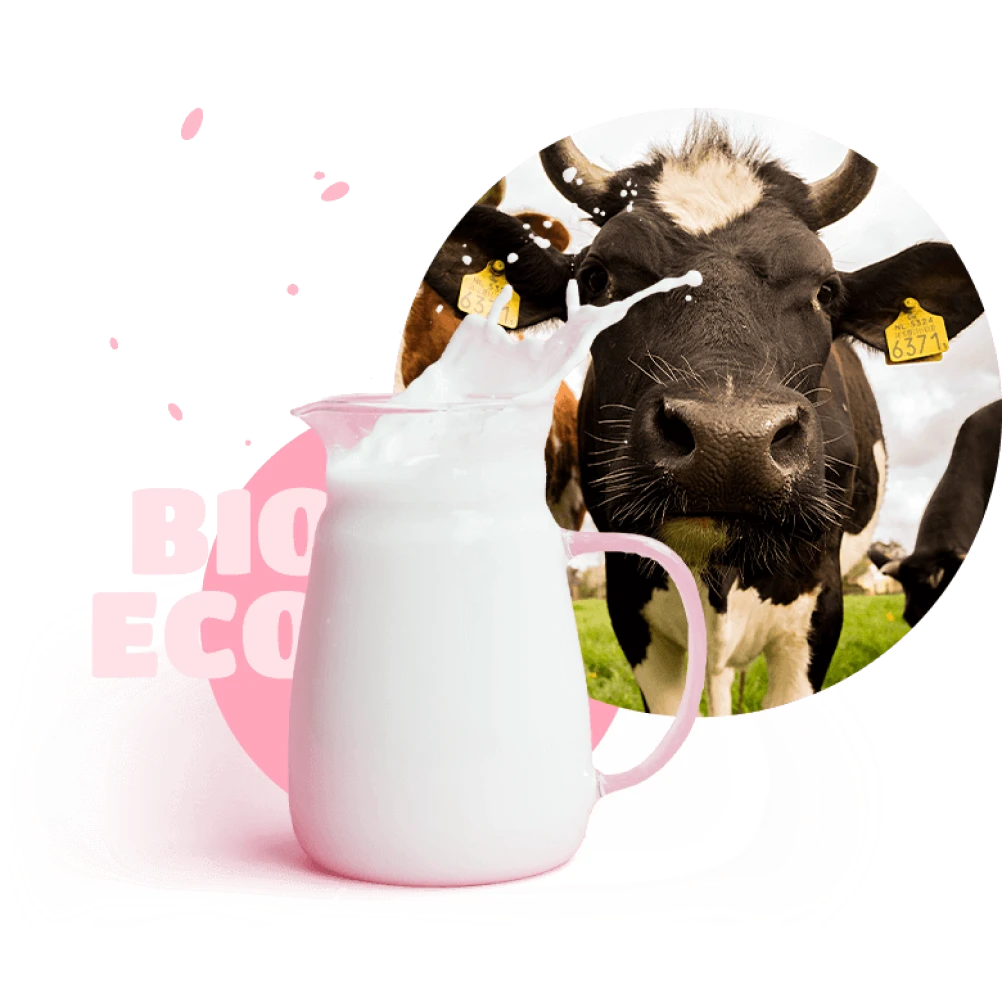
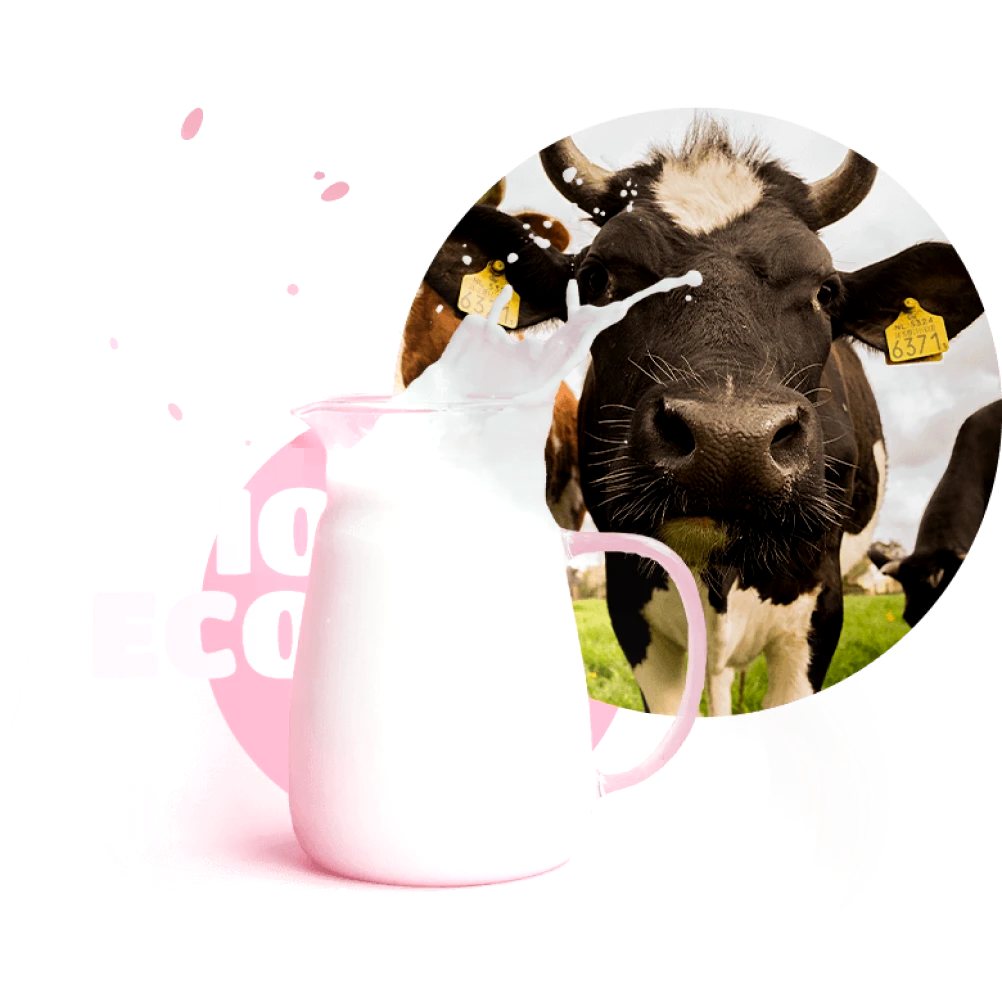
completed about(how it is made) section

Changed region(s): [[0.1238, 0.4022, 0.5878, 0.8972], [0.5569, 0.5878, 0.6497, 0.7425], [0.5878, 0.7425, 0.6497, 0.8044]]

diff --git a/src/sass/components/_about.scss b/src/sass/components/_about.scss
@@ -8,84 +8,151 @@
 .about {
     padding-top: 40px;
     padding-bottom: 40px;
-    background-color: #FFF5F6;
+    background-color: var(--second-bg);
     text-align: center;
-}
+    background-size: contain;
+    background-position:bottom 25% right;
+    background-repeat: no-repeat;
+    
+        @media screen and (max-width:767px) {
+            background-image: url('../images/about/about-background_sm.png');
+            background-image: -webkit-image-set(url('../images/about/about-background_sm.webp') 1x);
+    
+    
+            @media screen and (min-device-pixel-ratio: 2),
+            screen and (-moz-min-device-pixel-ratio: 2),
+            screen and (-o-min-device-pixel-ratio: 2/1),
+            screen and (-webkit-min-device-pixel-ratio: 2),
+            screen and (min-resolution: 192dpi),
+            screen and (min-resolution: 2dppx) {
+                background-image: url('../images/about/about-background_sm@2x.png');
+                background-image: -webkit-image-set(url('../images/about/about-background_sm@2x.webp') 2x);
+            }
+        }
+        @media screen and (min-width:1200px) {
+            background-position: bottom 10% right;
+            background-image: url('../images/about/about-background_lg.png');
+            background-image: -webkit-image-set(url('../images/about/about-background_lg.webp') 1x);
 
+
+            @media screen and (min-device-pixel-ratio: 2),
+            screen and (-moz-min-device-pixel-ratio: 2),
+            screen and (-o-min-device-pixel-ratio: 2/1),
+            screen and (-webkit-min-device-pixel-ratio: 2),
+            screen and (min-resolution: 192dpi),
+            screen and (min-resolution: 2dppx) {
+                background-image: url('../images/about/about-background_lg@2x.png');
+                background-image: -webkit-image-set(url('../images/about/about-background_lg@2x.webp') 2x);
+            }
+        }
+
+}
+.about__wrapper {
+    display: flex;
+    // justify-content:center;
+    align-items: center;
+    @media screen and (max-width: 767px) {
+        flex-direction: column;
+    }
+    @media screen and (max-width: 1199px) {
+        justify-content: center;
+    }
+
+
+}
 .about__subtitle {
-    font-family: 'Titan One';
+    font-family: var(--secondary-font);
     font-style: normal;
     font-weight: 400;
     font-size: 18px;
     line-height: calc(21/18);
     text-transform: uppercase;
+    margin-bottom: 15px;
 
-    color: #FFA5BA;
-
-    margin: 0;
-    padding: 0;
-
-
-    // margin-bottom: 15px;
+    color: var(--uppertitle-txt);
 }
 
 .about__title {
-    font-family: 'Titan One';
+    display: inline-block;
+    font-family: var(--secondary-font);
     font-style: normal;
     font-weight: 400;
     font-size: 34px;
     line-height: calc(39/34);
     letter-spacing: 0.04em;
     text-transform: uppercase;
-    width: 200px;
-
+    text-align: center;
     color: #D41443;
-    margin: 0;
-    padding: 0;
-
-    margin-top: 15px;
     margin-bottom: 32px;
-    margin-right: auto;
-    margin-left: auto;
+
+    @media screen and (max-width: 767px) {
+        width: 200px;
+    }
+    @media screen and (min-width: 768px) {
+    margin-bottom: 80px;
+    }
+}
+.about__img{
+    margin-bottom: 40px;
 }
 .about__container {
-    background-size: contain;
-        background-position: center;
-        background-repeat: no-repeat;
-   @media screen and (max-width:767px) {
-       background-image: url('../images/about/about-background_sm.png');
-       background-image: -webkit-image-set(url('../images/about/about-background_sm.webp') 1x);
-       
-
-       @media screen and (min-device-pixel-ratio: 2),
-       screen and (-moz-min-device-pixel-ratio: 2),
-       screen and (-o-min-device-pixel-ratio: 2/1),
-       screen and (-webkit-min-device-pixel-ratio: 2),
-       screen and (min-resolution: 192dpi),
-       screen and (min-resolution: 2dppx) {
-           background-image: url('../images/about/about-background_sm@2x.png');
-           background-image: -webkit-image-set(url('../images/about/about-background_sm@2x.webp') 2x);
-       }
-   }
+    text-align: left;
+    @media screen and (min-width: 768px) {
+        margin-left: 32px;
+        
+        }
+    @media screen and (min-width: 1200px) {
+        margin-left: 139px;
+    }
+                
 }
 .about__text {
-    font-family: 'DM Sans';
+    font-family: var(--primary-font);
     font-style: normal;
     font-weight: 500;
     font-size: 12px;
-    line-height: calc(19/12);
+    line-height: 1.62;
     text-align: start;
     width: 220px;
-
     color: #000000;
-
-    margin: 0;
-    padding: 0;
+    margin-bottom: 40px;
+    @media screen and (min-width: 768px) {
+        font-size: 14px;
+        line-height: 1.76;
+        width: 335px;
+    }
+    @media screen and (min-width: 1200px) {
+        font-size: 16px;
+        letter-spacing: 0.04;
+        width: 463px;
+    }
 }
 
 .about__text-color {
-    color: #907E82;
-    margin-top: 40px;
+    color: var(--second-txt);
     margin-bottom: 20px;
+
+}
+.about__btn {
+font-family: var(--primary-font);
+    font-style: normal;
+    font-weight: 700;
+    font-size: 14px;
+    line-height: calc(18/14);
+    text-align: center;
+    color: var(--accent-txt);
+    background: var(--light-txt);
+
+    border-radius: 22px;
+    border: hidden;
+    padding: 12px 37px;
+    cursor: pointer;
+    transition: background-color 250ms cubic-bezier(0.4, 0, 0.2, 1);
+    &:hover,:focus {
+      background-color: #ECEBEB;
+    }
+}
+.about__icon {
+    margin-left: 14px;
 
 }

diff --git a/src/partials/about.html b/src/partials/about.html
@@ -1,15 +1,61 @@
-<section class="about container">
-    <span class="about__subtitle">tradition and love</span>
-    <h1 class="about__title">how it’s made?</h1>
-        <img class="about__img" src="images/about/about-picture_sm.png" alt="jug of milk and cow" width="280"
-        height="279">
-   <div class="about__container">
-        <p class="about__text">Fusce ut velit laoreet, tempus arcu eu, molestie tortor. Nam vel justo cursus, faucibus lorem
-            eget, egestas eros.
-            Maecenas eleifend erat at justo fringilla.</p>
-        <p class="about__text about__text-color">Curabitur lacinia enim at ex blandit, vel pellentesque odio elementum.
-            Mauris rhoncus orci in imperdiet placerat.
-            Vestibulum euismod nisl suscipit ligula volutpat, a feugiat urna maximus. Cras massa nibh, tincidunt. Aliquam erat volutpat. Aenean accumsan.</p>
-   </div>
-    <button type="button">Read more</button>
+<section class="about">
+        <div class="container">
+            <p class="about__subtitle">tradition and love</p>
+            <h1 class="about__title">how it’s made?</h1>
+            <di class="about__wrapper">
+                <picture>
+                     <source 
+                        srcset="images/about/about-picture_lg.webp 1x,
+                                images/about/about-picture_lg@2x.webp 2x" 
+                        media="(min-width: 1200px)"
+                        type="image/webp" 
+                    />
+                    <source 
+                        srcset="images/about/about-picture_lg.png 1x,
+                                images/about/about-picture_lg@2x.png 2x" 
+                        media="(min-width: 1200px)" 
+                        type="image/png" 
+                    />
+                    <source 
+                        srcset="images/about/about-picture_md.webp 1x,
+                                images/about/about-picture_md@2x.webp 2x" 
+                        media="(min-width: 480px)"
+                        type="image/webp" 
+                    />
+                    <source 
+                        srcset="images/about/about-picture_md.png 1x,
+                                images/about/about-picture_md@2x.png 2x" 
+                        media="(min-width: 480px)" 
+                        type="image/png" 
+                    />
+                    <source 
+                        srcset="images/about/about-picture_sm.webp 1x,
+                                images/about/about-picture_sm@2x.webp 2x" 
+                        media="(min-width: 320px)"
+                        type="image/webp" 
+                    />
+                    <source 
+                        srcset="images/about/about-picture_sm@2x.png 2x" 
+                        media="(min-width: 320px)" 
+                        type="image/png"
+                    />
+                    <img class="about__img" src="images/about/about-picture_sm.png" alt="jug of milk and cow">
+                </picture>
+                
+                <div class="about__container">
+                    <p class="about__text">Fusce ut velit laoreet, tempus arcu eu, molestie tortor. Nam vel justo cursus, faucibus lorem
+                        eget, egestas eros.
+                        Maecenas eleifend erat at justo fringilla.</p>
+                    <p class="about__text about__text-color">Curabitur lacinia enim at ex blandit, vel pellentesque odio elementum.
+                        Mauris rhoncus orci in imperdiet placerat.
+                        Vestibulum euismod nisl suscipit ligula volutpat, a feugiat urna maximus. Cras massa nibh, tincidunt.</p>
+                    <p class="about__text about__text-color">Aliquam erat volutpat. Aenean accumsan.</p>
+                    <button class="about__btn" type="button">Read more
+                        <svg class="about__icon" width="10" height="10">
+                            <use href="images/btn-arow.svg#btn-arow"></use>
+                        </svg>
+                    </button>
+                </div>
+            </di>
+        </div>
 </section>

diff --git a/src/sass/main.scss b/src/sass/main.scss
@@ -1,2 +1,4 @@
 @import './base/base';
+@import './utils/reset';
+@import './utils/variables';
 @import './components/about';
